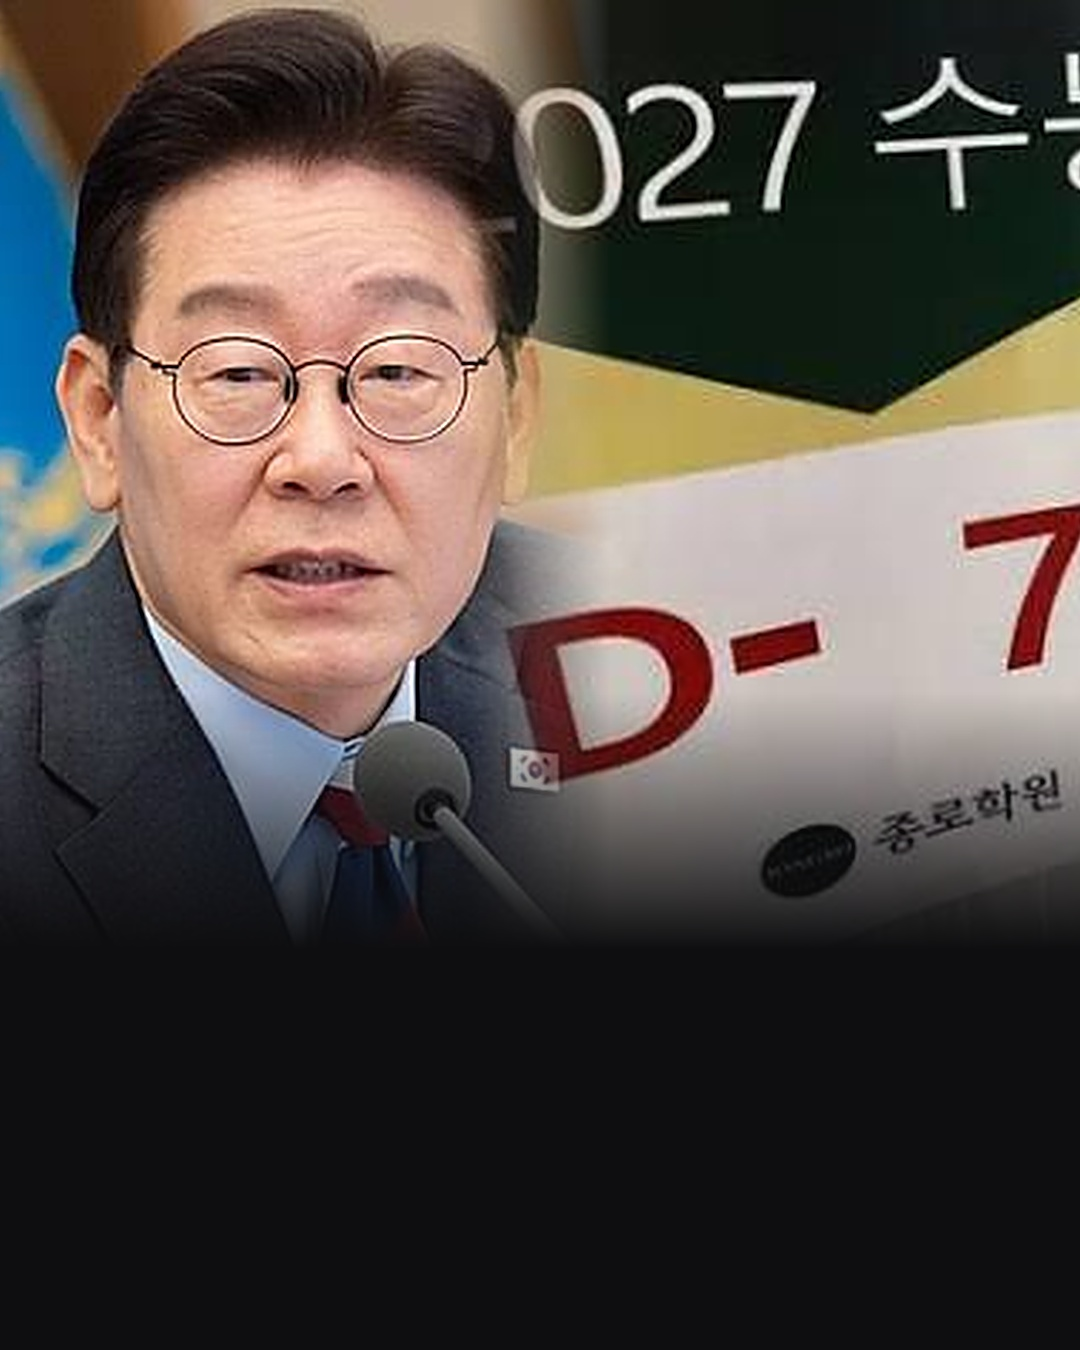
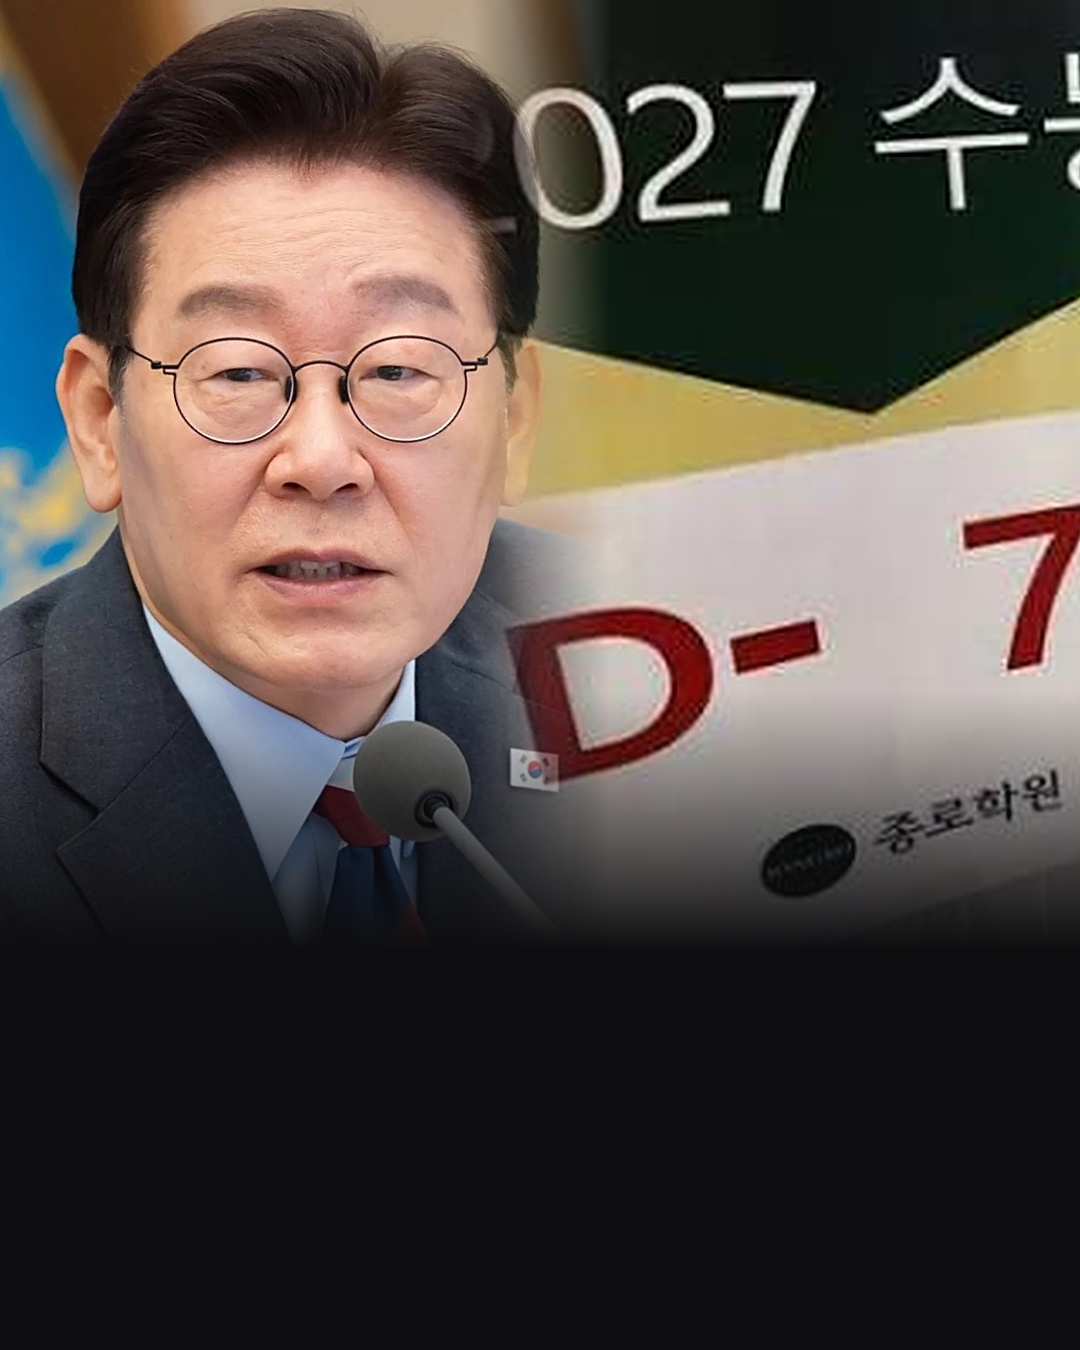
ljm 표지: 대통령 사진 고화질로 교체
Claude-Session: https://claude.ai/code/session_01FGsw5QnWxFUsnopcB1Czie

diff --git a/media/20261117-ljm/build_card.py b/media/20261117-ljm/build_card.py
@@ -33,7 +33,7 @@ logo(im); im.save(Path(__file__).parent / "cand" / "c02_rebuilt_unused.jpg", qua
 # 표지 배경(사용자 지정): 왼쪽 대통령 사진, 오른쪽 수능 D-7 학원 사진(뉴스1) 나란히, 경계 페이드. 아래는 글자 자리로 어둡게.
 # D-7 사진 위쪽 '11월 12일(목)' 글씨는 이번 수능 날짜(19일)와 달라 잘라냄.
 from PIL import ImageFilter, ImageOps
-A = Image.open(Path(__file__).parent / "cand" / "user_photo2.png").convert("RGB")  # 2026-11-17 사용자 교체 사진
+A = Image.open(Path(__file__).parent / "cand" / "user_photo3.jpg").convert("RGB")  # 2026-11-17 사용자 교체 사진(고화질)
 B = Image.open(Path(__file__).parent / "cand" / "user_d7.jpg").convert("RGB").crop((0, 88, 300, 369))
 TH = 950
 A = ImageOps.fit(A, (620, TH), Image.LANCZOS, centering=(.5, 0)).filter(ImageFilter.UnsharpMask(2, 60, 2))
